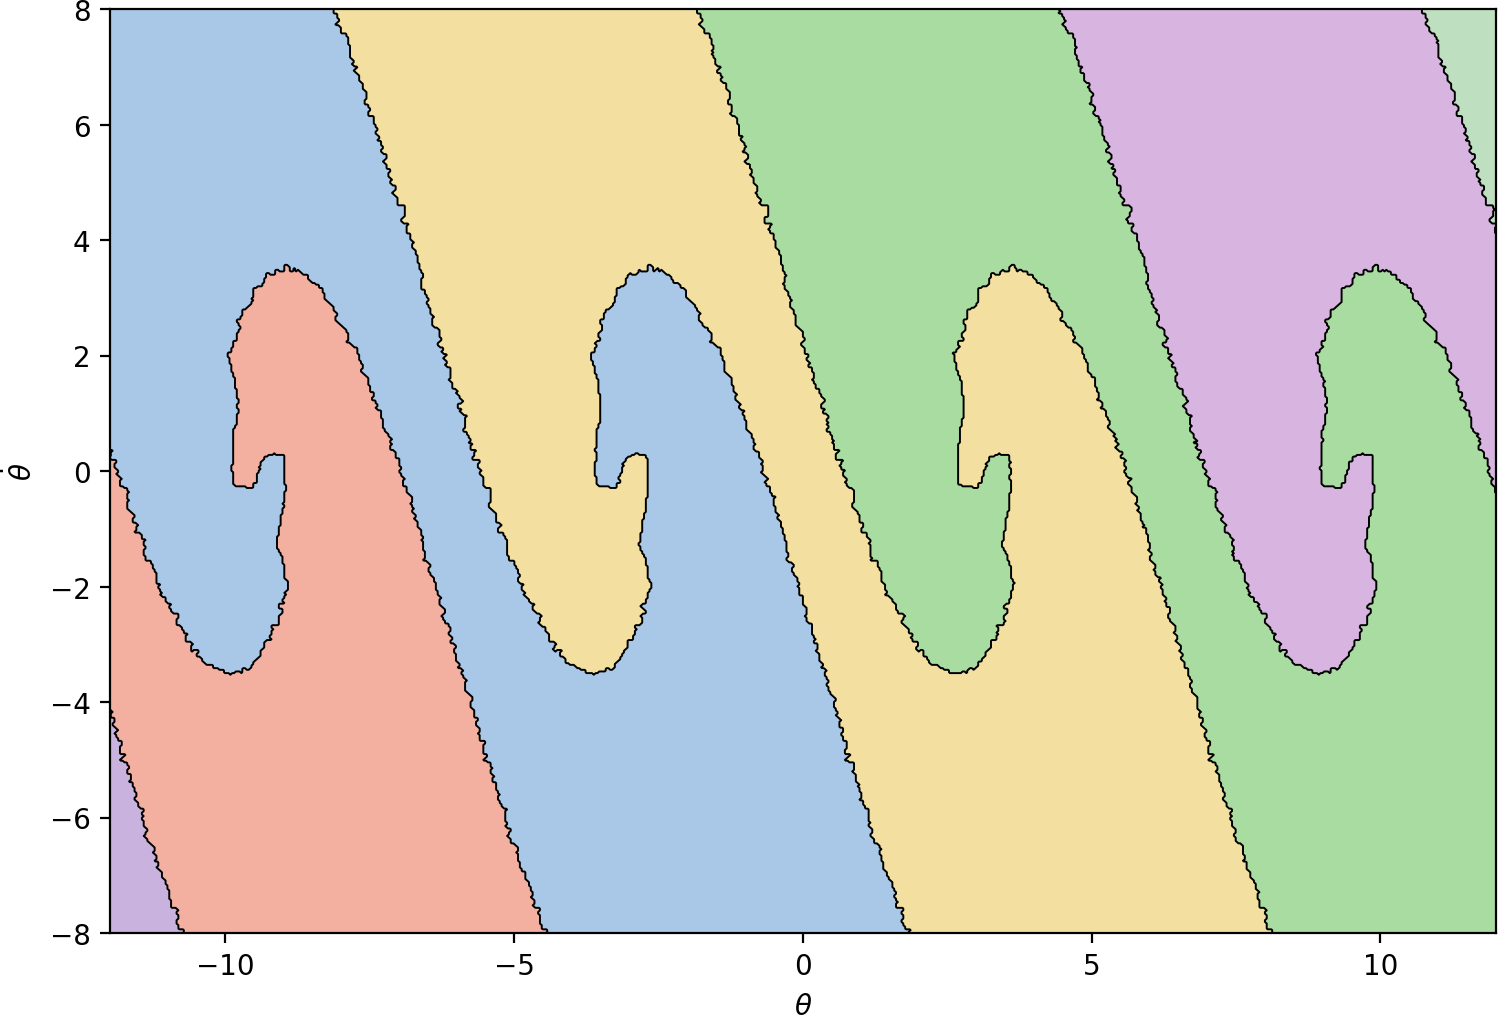
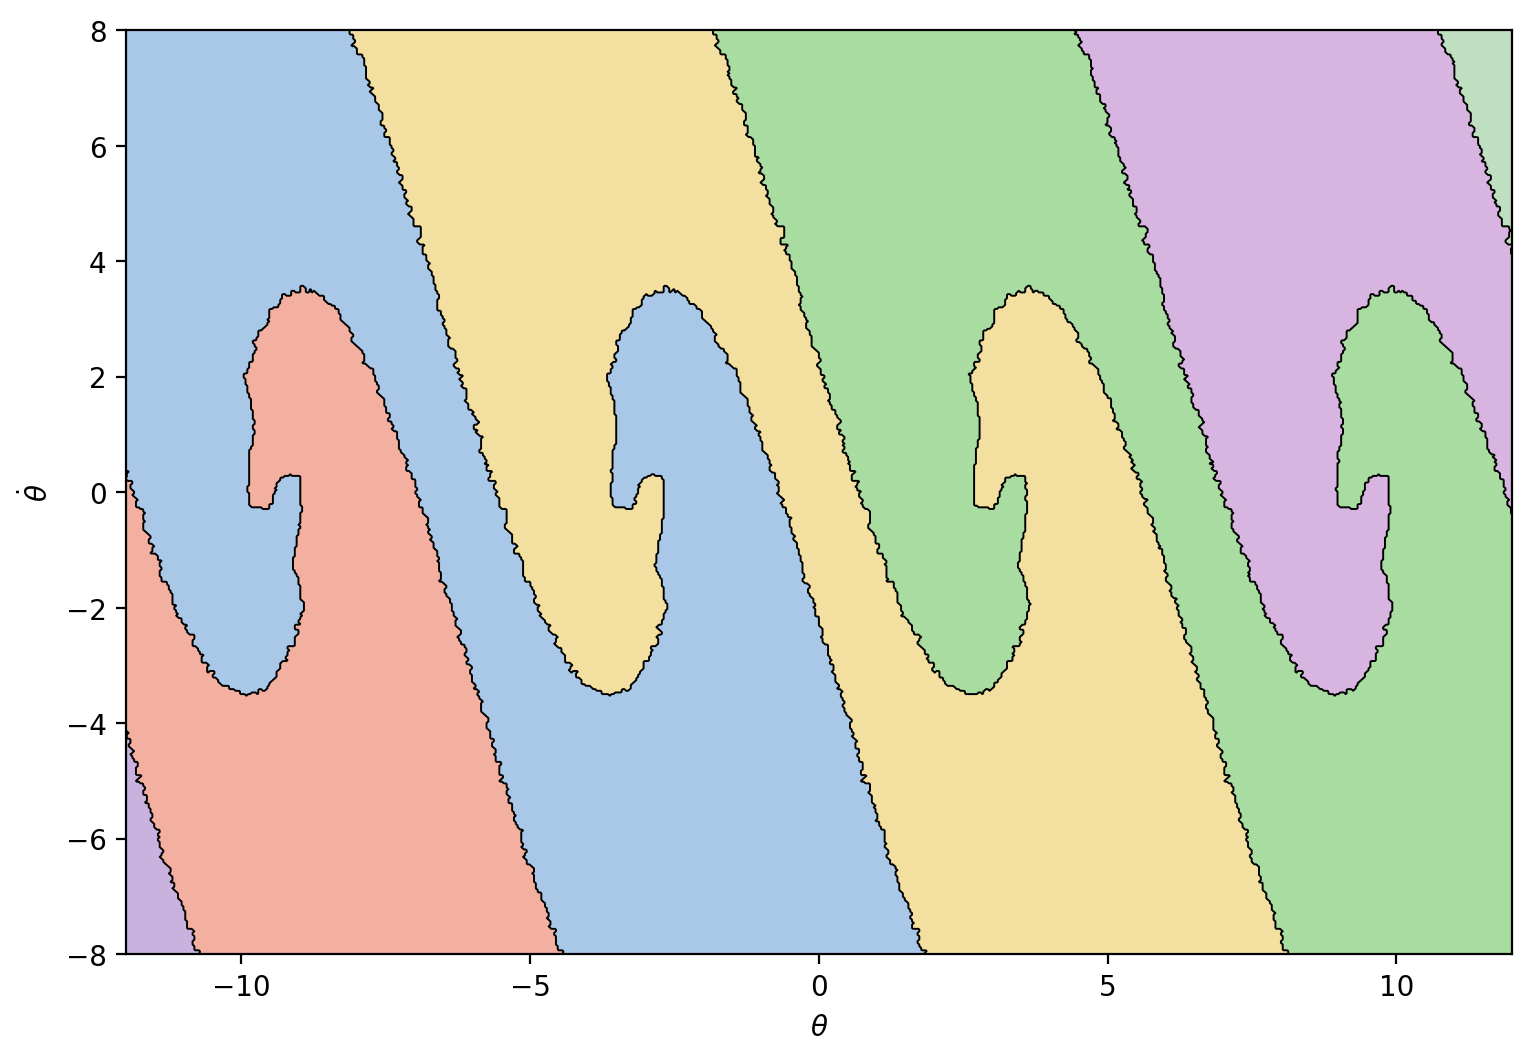
thesis(pendulum): retitle the representation-limit subsection; switching-band naming
'Limitation of Fitting the General Value Function' ->
'The Representation Limit at the Switching Set' — the section's content
shows a representation limit at a seen kink, not missing data. near-band ->
switching-band in the transect discussion. Refresh the openloop pendulum
figure copies (regenerated on the two-sided dataset). Builds clean with
latexmk.

diff --git a/papar/Mthesis.tex b/papar/Mthesis.tex
@@ -1986,7 +1986,7 @@ $\nabla V$ is discontinuous.}
 
 
 
-\subsubsection{Limitation of Fitting the General Value Function}
+\subsubsection{The Representation Limit at the Switching Set}
 As in the last example we fit the training data with the models we selected.
 Figure~\ref{fig:rs_surfaces} shows the
 four fitted surfaces on the same physical window and value range as the true
@@ -2047,7 +2047,7 @@ one-sided steepness the global $H^{1}$ fit will spend neurons on.
 $\mathrm{ReLU}^{2}$ comes closest: it is the only model that develops a visible
 kink at $s\approx 0$ --- its piecewise-quadratic atoms can break the derivative
 across a line --- while the smooth activations necessarily interpolate a gentle
-slope through the discontinuity. The near-band error is thus a genuine
+slope through the discontinuity. The switching-band error is thus a genuine
 representation cost at a \emph{seen} discontinuity, no longer a boundary-layer
 artifact of one-sided sampling.
 